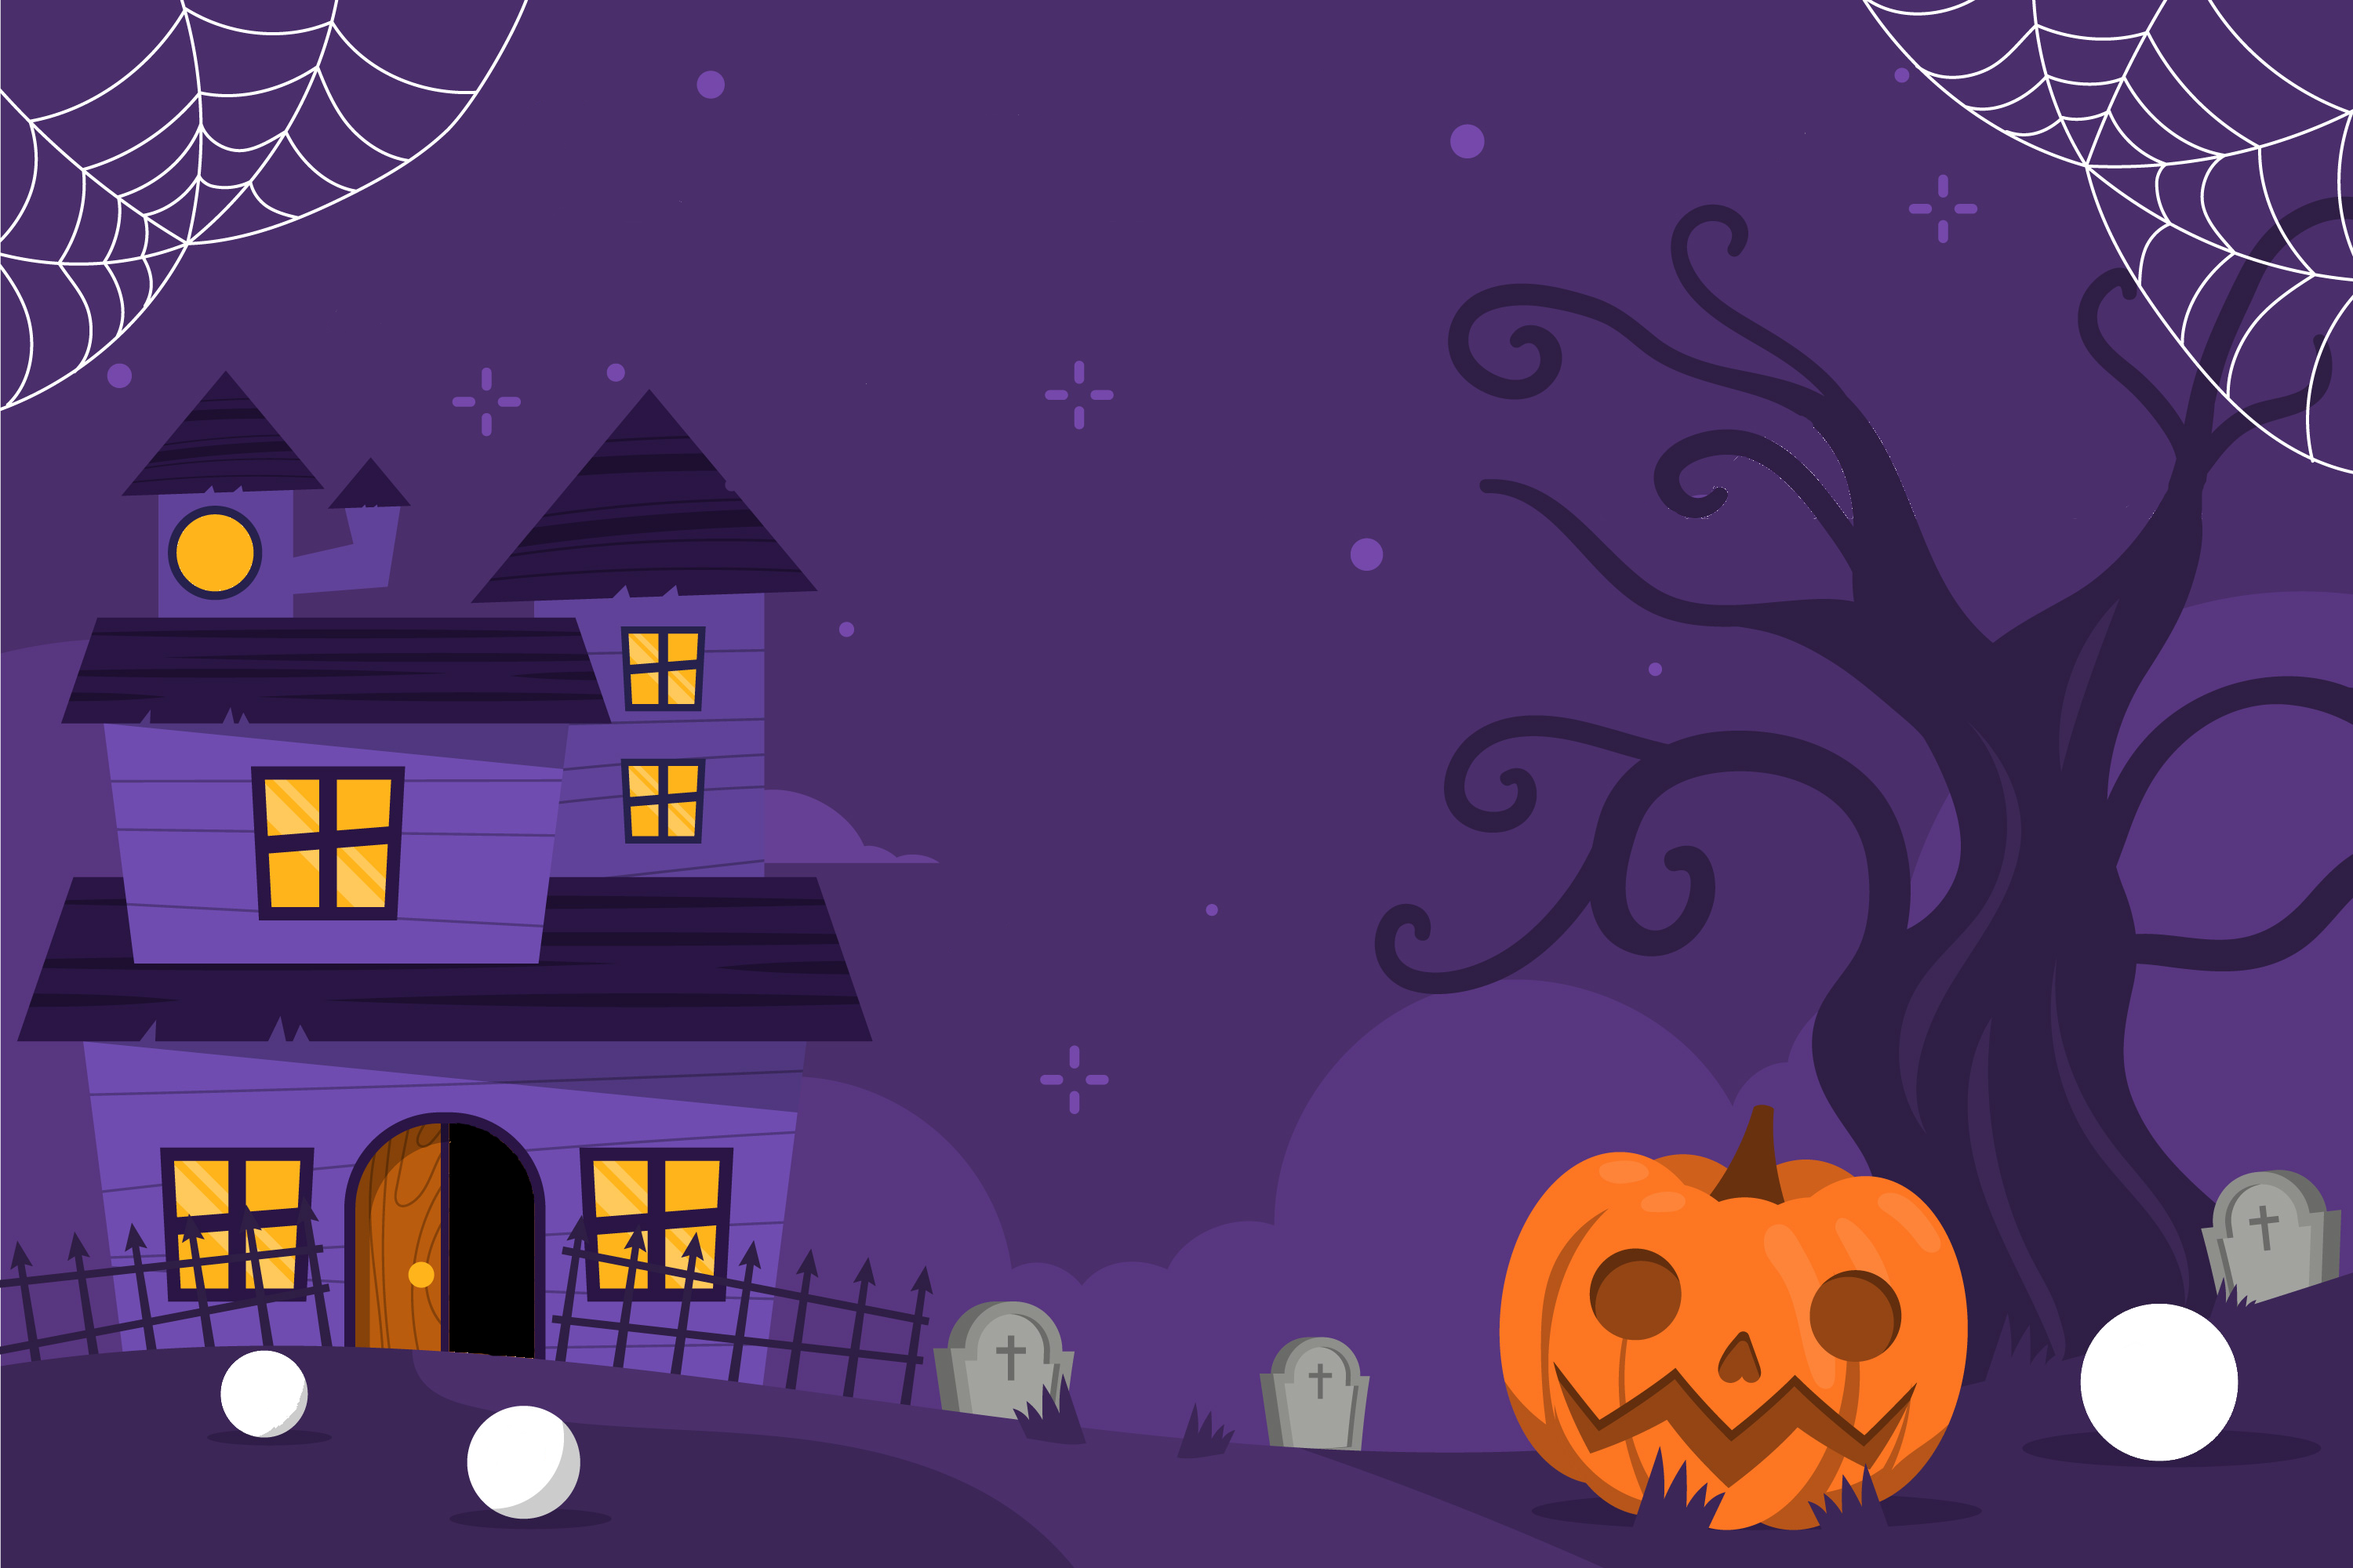
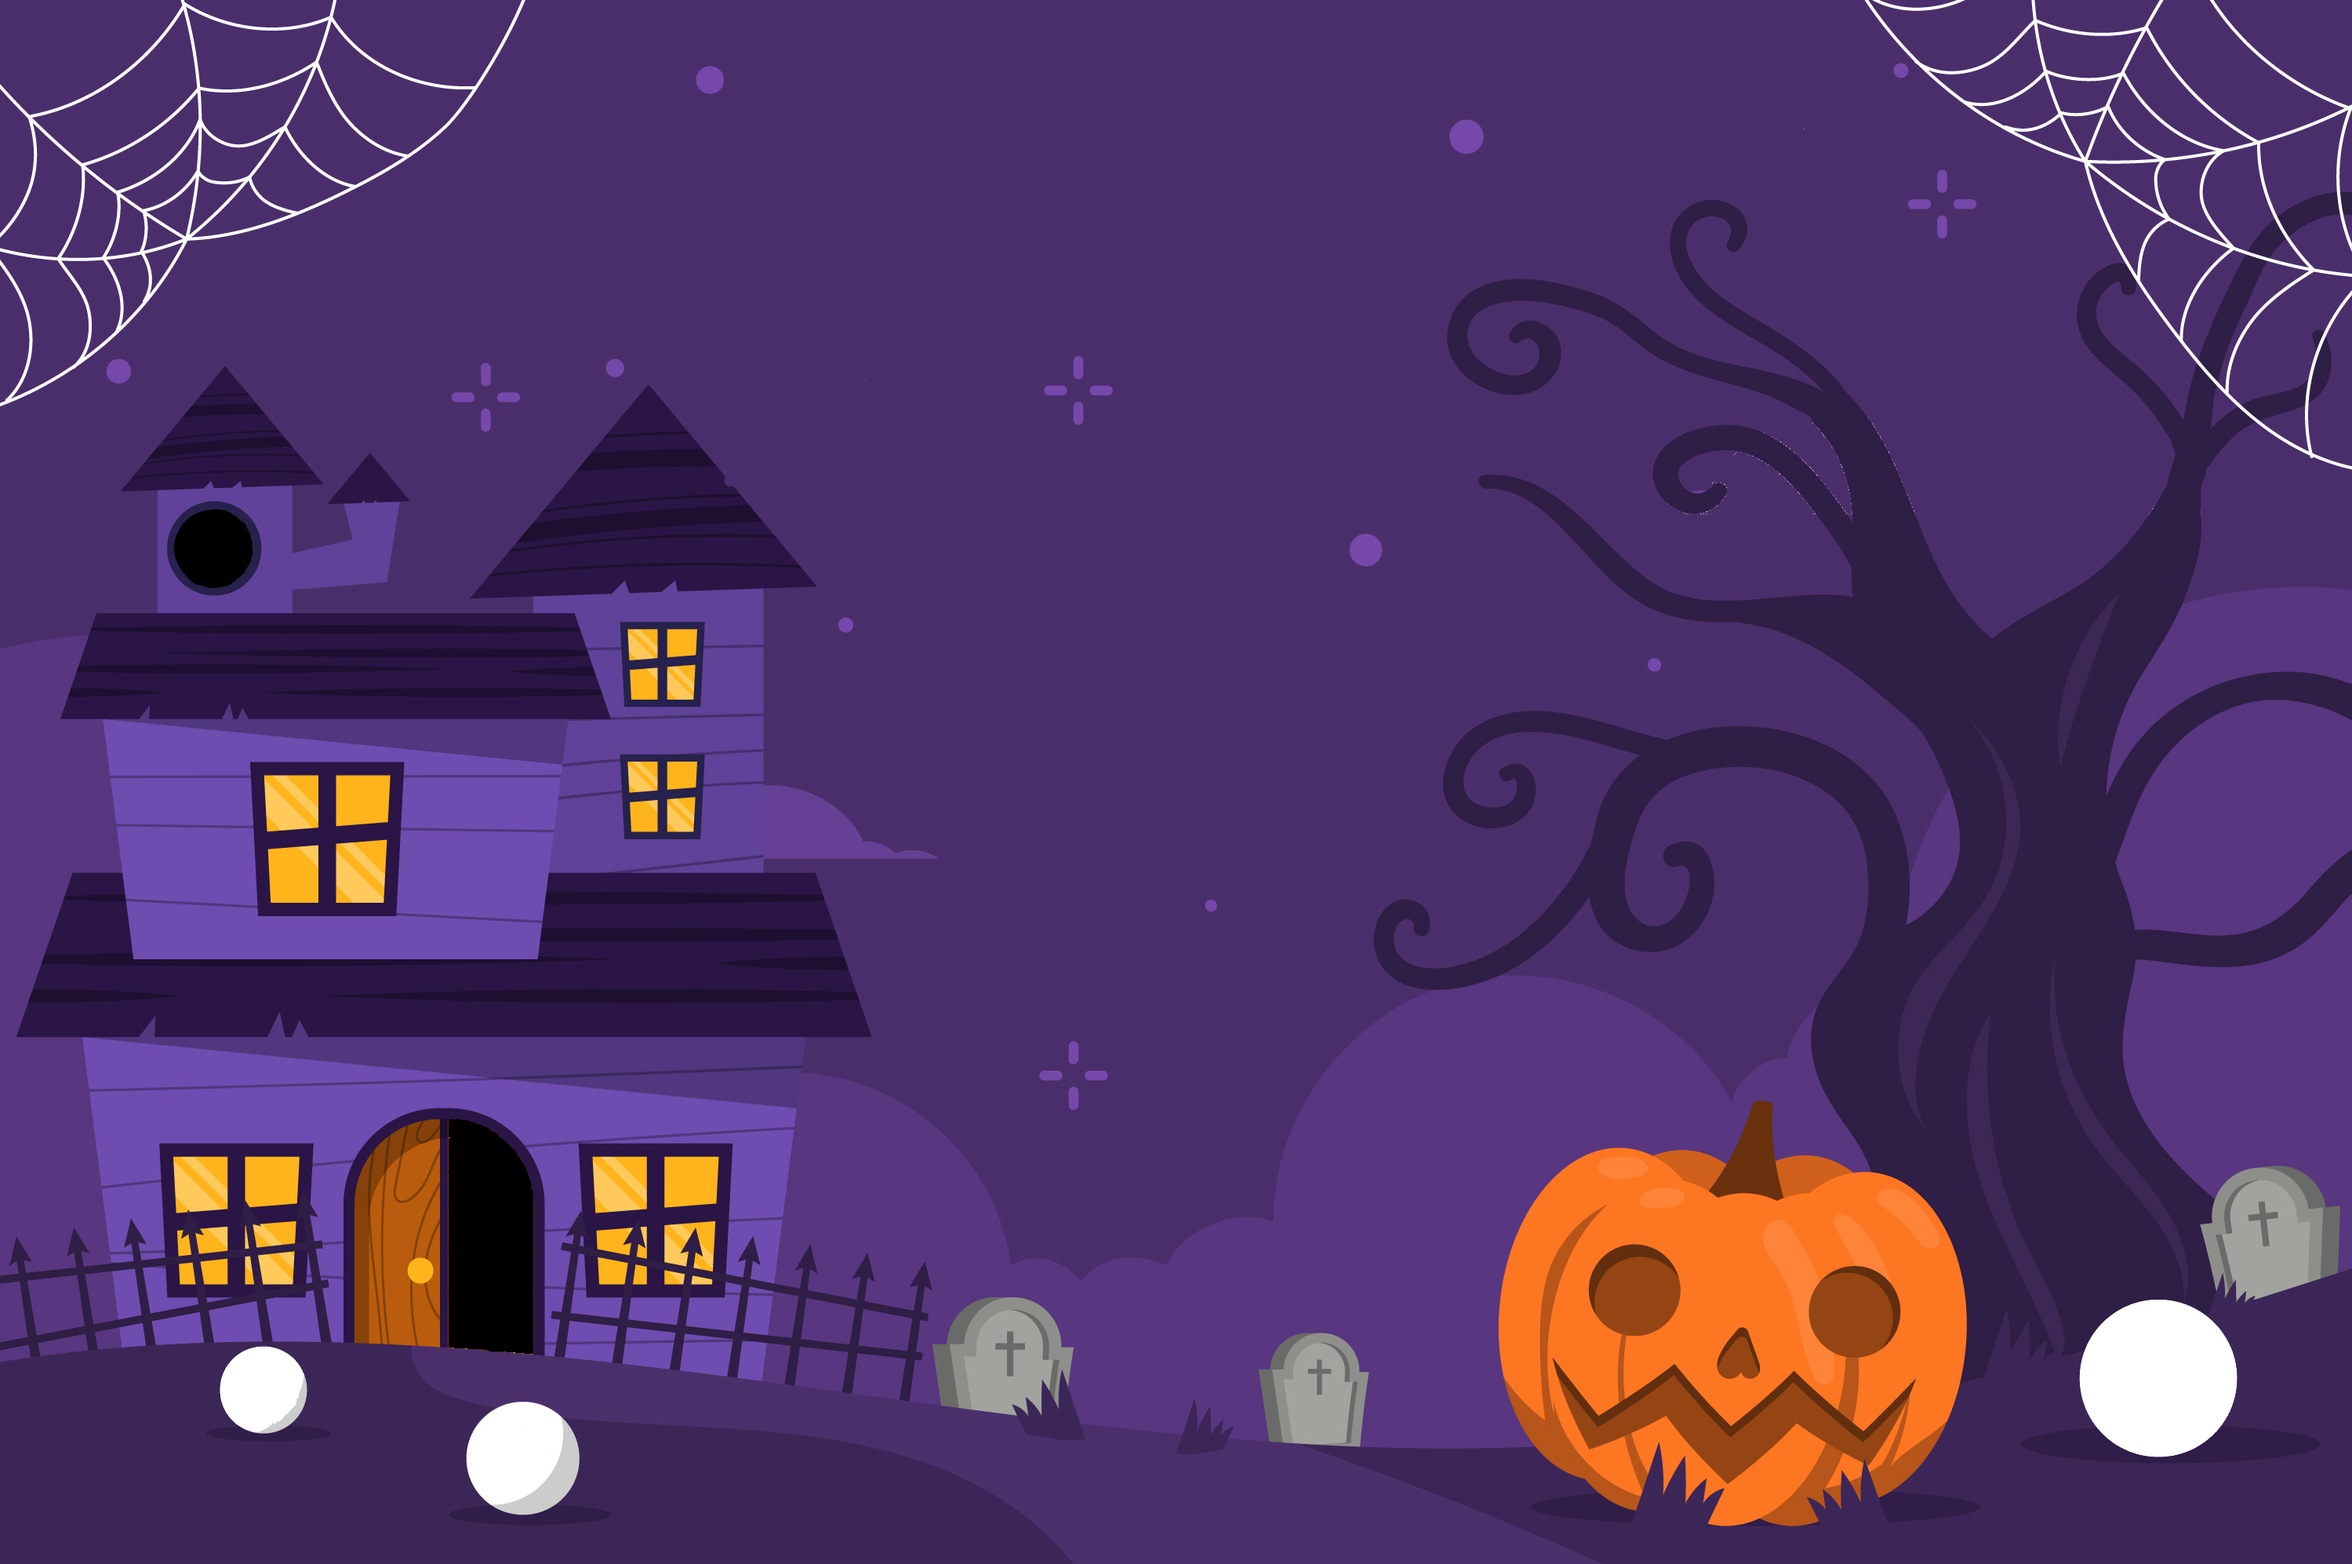
ultimos elementos

diff --git a/Hallowen/hallowen.html b/Hallowen/hallowen.html
@@ -39,8 +39,11 @@
         <div><img id="nube1" src="img/nube1.png"alt="nube1"></div>
         <div><img id="nube2" src="img/nube2.png"alt="nube2"></div>
         <div><img id="buho" src="img/buho.gif" alt="buho"></div>
-
+        <div><img id="lobo" src="img/lobo.png" alt="lobo"></div>
+        <div><img id="ventana" src="img/ventanaredonda.png" alt="ventana"></div>
+        <div><img id="spider" src="img/araña.png" alt="araña"></div>
         <audio id="ruidobuho" src="musica/owls-241046.mp3"></audio>
+        <audio id="ruidolobo" src="musica/001083336_prev.mp3"></audio>
 
         <script>
             const imagen = document.getElementById('buho');
@@ -53,6 +56,17 @@
             imagen.addEventListener('mouseout', () => {
                 audio.pause();
                 audio.currentTime = 0; 
+            });
+            const lobo = document.getElementById('ventana');
+            const sonidoLobo = document.getElementById('ruidolobo');
+
+            lobo.addEventListener('mouseover', () => {
+                sonidoLobo.play();
+            });
+
+            lobo.addEventListener('mouseout', () => {
+                sonidoLobo.pause();
+                sonidoLobo.currentTime = 0;
             });
         </script>
 </body>

diff --git a/Hallowen/hallowen.css b/Hallowen/hallowen.css
@@ -31,7 +31,12 @@ body {
     transition: transform 0.3s ease;
     transform: translateX(-50%);
 }
-
+#spider{
+    position: absolute;
+    height:32px;
+    left: 15vw;
+    top:15vh;
+}
 #marcoizq {
     position: absolute;
     height: 100vh;
@@ -62,6 +67,18 @@ body {
     height:43px;
     left: 25%;
     top: 81vh;
+}
+#ventana{
+    position: absolute;
+    height: 5vh;
+    left: 29vb;
+    top: 32.51vb
+}
+#lobo{
+    position: absolute;
+    height: 3vh;
+    left: 16%;
+    top: 34vb
 }
 #nube1{
     position: absolute;
@@ -171,6 +188,10 @@ body {
     opacity: 0;
     transition: opacity 2s;
  }
+ #ventana:hover{
+    opacity: 0;
+    transition: opacity 1s;
+ }
 #casa:hover #bruja {
     transform: translateX(-10vw) translateY(-20vh);
     opacity: 0; 
@@ -239,3 +260,4 @@ body:hover #ojoder{
 #puerta:hover{
     opacity: 0;
 }
+
